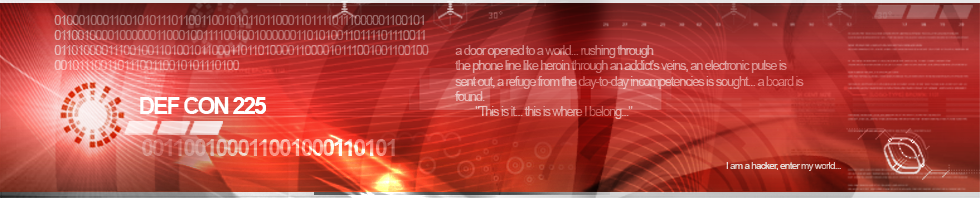
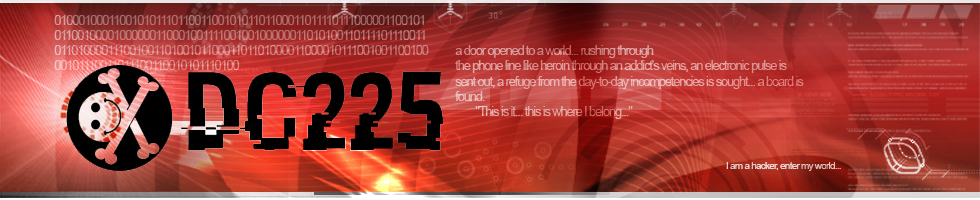
maybe

Changed region(s): [[0.0612, 0.33, 0.4592, 0.87]]

diff --git a/index.html b/index.html
@@ -53,17 +53,6 @@ We <3 You. Join Us.
   </head>
   <body>
     <div class="container">
-      <div class="row header-logo">
-        <div class="col-xs-6">
-          <a href="/">
-            <img src="./assets/images/logo.png" id="logo" border="0" />
-          </a>
-        </div>
-
-        <div class="col-xs-6">
-
-        </div>
-      </div>
 
       <div class="row header">&nbsp;</div>
     </div>

diff --git a/assets/css/design.css b/assets/css/design.css
@@ -18,9 +18,9 @@ body {
   background-image: url("../images/header.png");
   background-repeat: no-repeat;
   background-size: cover;
-  min-height: 200px;
-  max-height: 200px;
-  height: 200px;
+  min-height: 205px;
+  max-height: 205px;
+  height: 205px;
 }
 .header-nav {
   background-color: #FFF;
